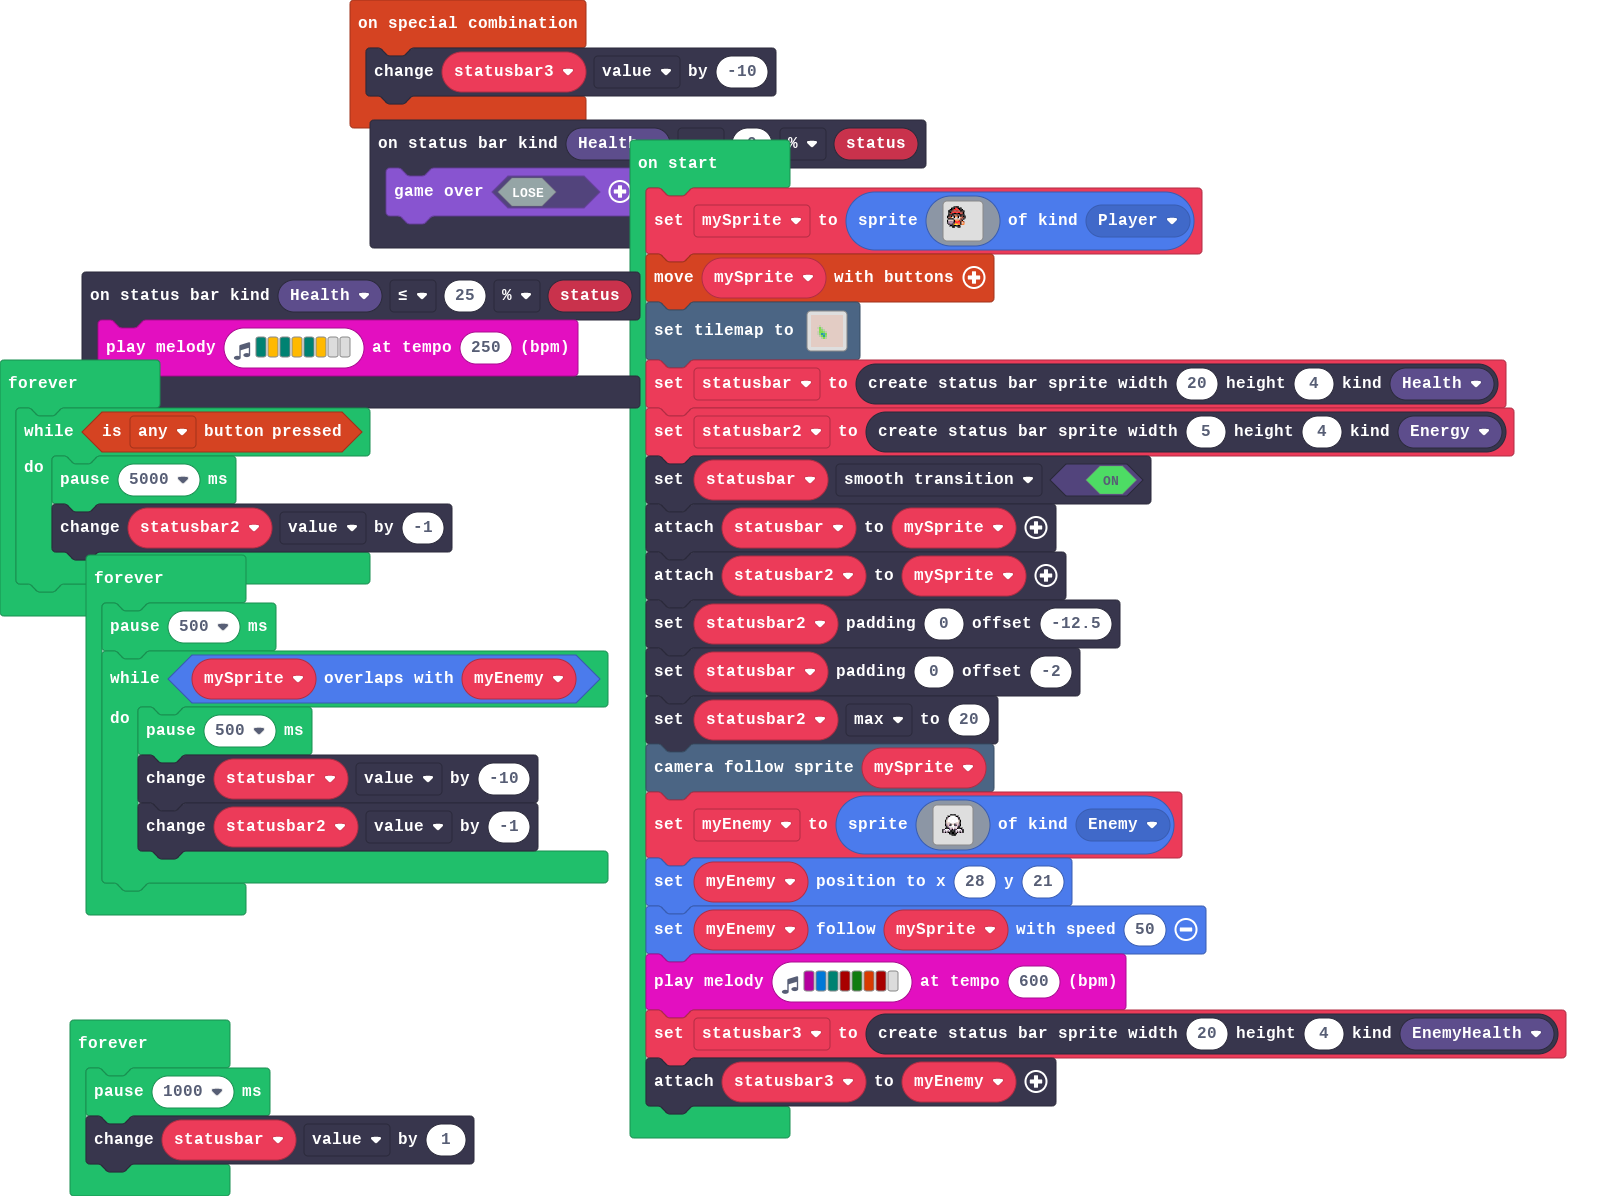
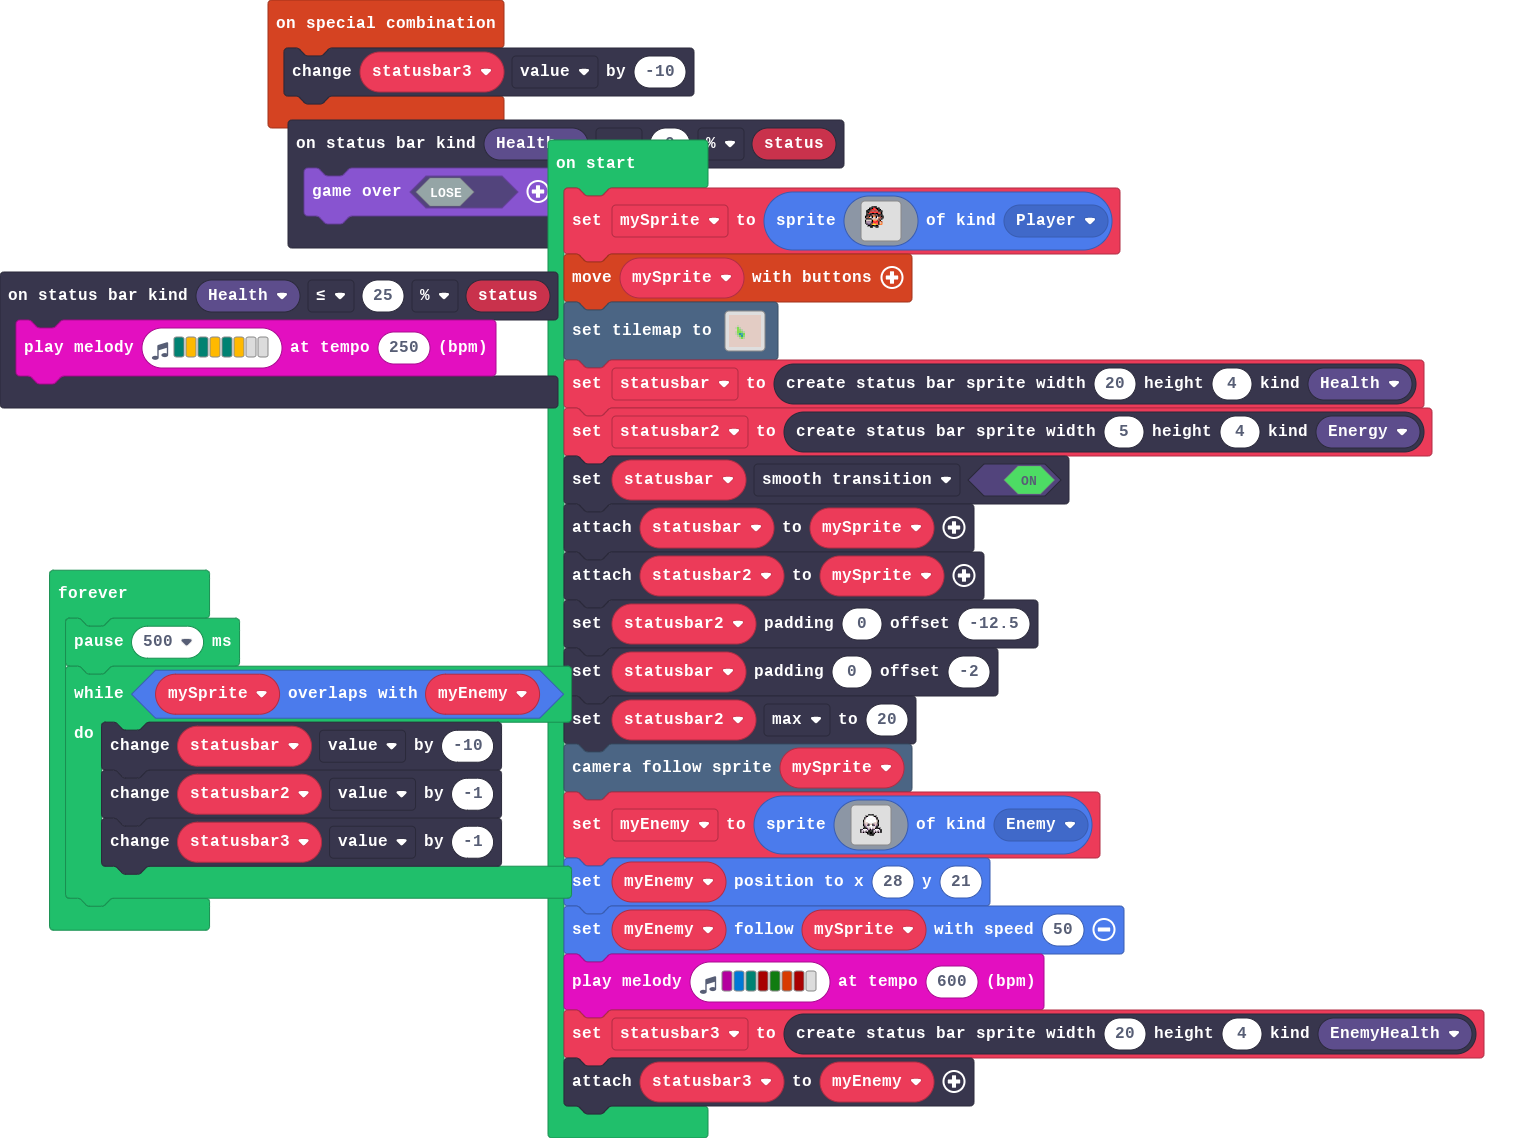
fixed invincibility bug + added better enemy attacking

diff --git a/main.ts b/main.ts
@@ -97,20 +97,10 @@ music.playMelody("C E F C5 G B C5 - ", 600)
 statusbar3 = statusbars.create(20, 4, StatusBarKind.EnemyHealth)
 statusbar3.attachToSprite(myEnemy)
 forever(function () {
-    while (controller.anyButton.isPressed()) {
-        pause(5000)
-        statusbar2.value += -1
-    }
-})
-forever(function () {
     pause(500)
     while (mySprite.overlapsWith(myEnemy)) {
-        pause(500)
         statusbar.value += -10
         statusbar2.value += -1
+        statusbar3.value += -1
     }
-})
-forever(function () {
-    pause(1000)
-    statusbar.value += 1
 })
